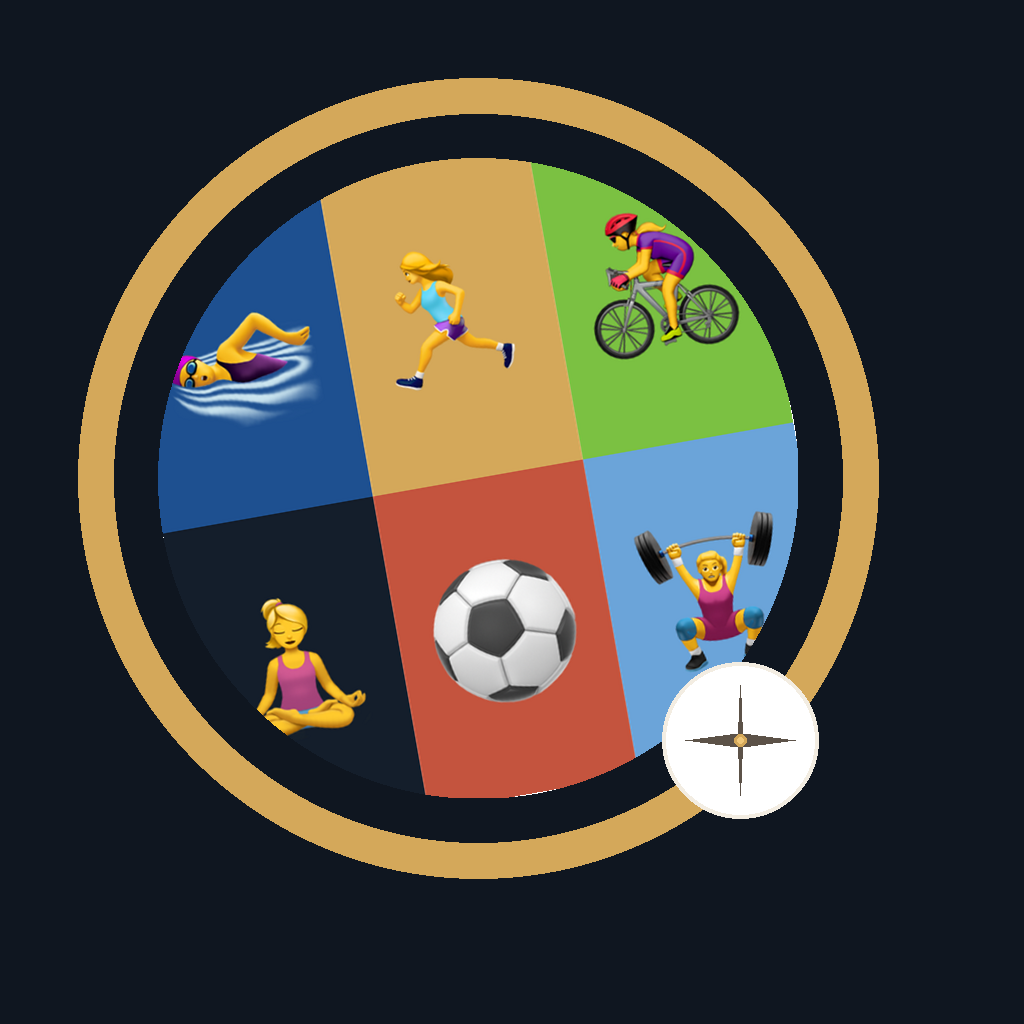
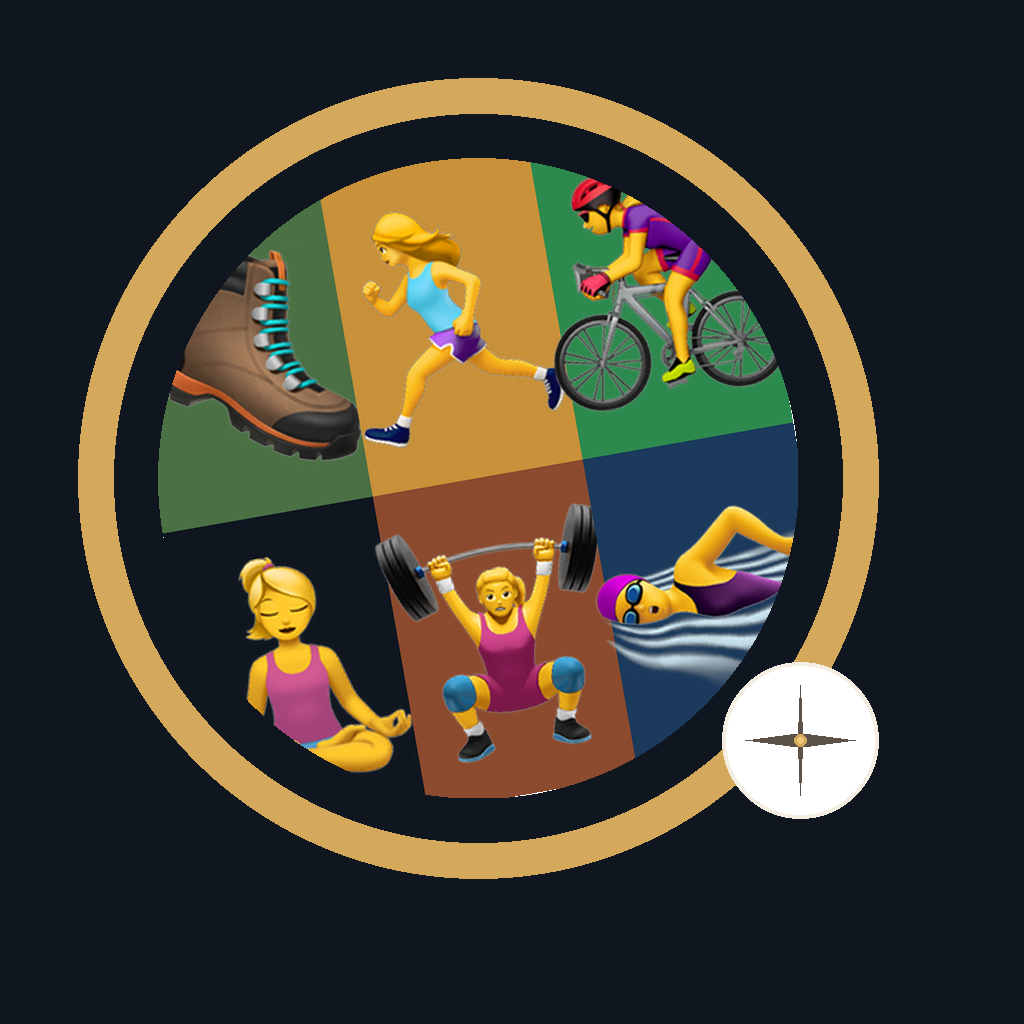
feat(brand): AppIcon final V2 — option D layout + emojis grands + sigil décalé
Sophie 2026-05-11 validé après itérations :
- Layout 3×2 : [randonnée][course][vélo] / [yoga][muscu][natation]
  Course + Muscu sur l'axe central vertical (colonne 2)
  Randonnée top-left, Natation bottom-right (swap final)
  Plus de football (trop dominant pour un sport pas principal)
- Emojis ×1.36 (target 380px) — fix bug PIL `thumbnail` qui ne fait que
  downscale, remplacé par `resize` qui scale up aussi
- Anneau or D4A85A + décentrage haut-gauche (cx=cy=478 sur 1024 = pattern
  FloreSage/GardenSage)
- Sigil Sage décalé à (800, 740) — vraie étoile 4 branches + point doré
- Rotation 10° anti-horaire (PIL counter-clockwise) — léger dynamisme

Pipeline 2 scripts :
- `Resources/Brand/gen-mosaic.py` — génère la mosaïque source via PIL
  + AppleColorEmoji embedded_color (emojis natifs Apple)
- `Resources/Brand/gen-icon.py` — applique halo or, clip cercle, sigil,
  rotation → 3 variants light/dark/tinted

Changed region(s): [[0.1562, 0.1562, 0.875, 0.8125]]

diff --git a/Resources/Brand/gen-mosaic.py b/Resources/Brand/gen-mosaic.py
@@ -1,0 +1,88 @@
+"""
+Génère la mosaïque source CoachingSage option D (validée Sophie 2026-05-11) :
+- Layout 3 col × 2 lignes
+- Course + Muscu en positions centrales (colonne du milieu)
+- Natation remplace Football
+- 6e cellule = Randonnée
+- Fonds couleur sport (matching Color.coachingSport(forCode:))
+- Emojis Apple rendus en couleur via PIL embedded_color
+"""
+from PIL import Image, ImageDraw, ImageFont
+
+SIZE = 1024
+COLS = 3
+ROWS = 2
+CELL_W = SIZE // COLS  # 341
+CELL_H = SIZE // ROWS  # 512
+
+EMOJI_FONT = "/System/Library/Fonts/Apple Color Emoji.ttc"
+EMOJI_NATIVE_SIZE = 160  # taille bitmap dispo dans AppleColorEmoji
+EMOJI_TARGET = 380       # ×1.36 vs 280 — Sophie 2026-05-11 : encore plus grand (limite largeur cellule 341)
+
+# Layout option D :
+# col0 = Natation,  col1 = Course,  col2 = Vélo
+# col0 = Yoga,      col1 = Muscu,   col2 = Randonnée
+CELLS = [
+    # (col, row, emoji, bg_color hex)
+    (0, 0, "🥾", "#4A7044"),                 # randonnée (était natation)
+    (1, 0, "🏃♀", "#C8913A"),   # course
+    (2, 0, "🚴♀", "#2D8A4E"),   # vélo
+    (0, 1, "🧘♀", "#0F1620"),   # yoga
+    (1, 1, "🏋♀", "#8C4A2E"),  # muscu
+    (2, 1, "🏊♀", "#1B3A5C"),   # natation (était randonnée)
+]
+
+OUT = "/Users/sophieslama/CL3/CoachingSage/Resources/Brand/coachingsage-mosaic-source.png"
+
+
+def hex_to_rgba(h):
+    h = h.lstrip("#")
+    return tuple(int(h[i:i+2], 16) for i in (0, 2, 4)) + (255,)
+
+
+def render_emoji(emoji_text):
+    """Render an emoji at native AppleColorEmoji bitmap size into a transparent
+    image, then resize to EMOJI_TARGET. Returns RGBA Image."""
+    font = ImageFont.truetype(EMOJI_FONT, size=EMOJI_NATIVE_SIZE)
+    # Padding suffisant pour ne pas clipper
+    pad = 20
+    tmp = Image.new("RGBA", (EMOJI_NATIVE_SIZE + pad * 2, EMOJI_NATIVE_SIZE + pad * 2), (0, 0, 0, 0))
+    draw = ImageDraw.Draw(tmp)
+    draw.text((pad, pad), emoji_text, embedded_color=True, font=font)
+    # Crop to non-transparent bbox to remove extra space
+    bbox = tmp.getbbox()
+    if bbox:
+        tmp = tmp.crop(bbox)
+    # Resize to target keeping aspect ratio (UP or DOWN — vs thumbnail qui ne fait QUE downscale)
+    w, h = tmp.size
+    scale = EMOJI_TARGET / max(w, h)
+    new_size = (int(w * scale), int(h * scale))
+    tmp = tmp.resize(new_size, Image.LANCZOS)
+    return tmp
+
+
+def main():
+    canvas = Image.new("RGBA", (SIZE, SIZE), (255, 255, 255, 255))
+    draw = ImageDraw.Draw(canvas)
+
+    for col, row, emoji, bg_hex in CELLS:
+        x0 = col * CELL_W
+        y0 = row * CELL_H
+        x1 = x0 + CELL_W
+        y1 = y0 + CELL_H
+        draw.rectangle((x0, y0, x1, y1), fill=hex_to_rgba(bg_hex))
+
+        # Render emoji
+        em = render_emoji(emoji)
+        ew, eh = em.size
+        # Center in cell
+        ex = x0 + (CELL_W - ew) // 2
+        ey = y0 + (CELL_H - eh) // 2
+        canvas.paste(em, (ex, ey), em)
+
+    canvas.save(OUT)
+    print(f"Wrote {OUT}")
+
+
+if __name__ == "__main__":
+    main()

diff --git a/Resources/Brand/gen-icon.py b/Resources/Brand/gen-icon.py
@@ -7,7 +7,7 @@ Generate CoachingSage AppIcon based on FloreSage/GardenSage visual pattern :
 """
 from PIL import Image, ImageDraw, ImageFilter
 
-SRC = "/Users/sophieslama/Downloads/CoachingSage-icon-mosaique-1024.png"
+SRC = "/Users/sophieslama/CL3/CoachingSage/Resources/Brand/coachingsage-mosaic-source.png"
 
 # Output 3 variants
 OUT_LIGHT = "/Users/sophieslama/CL3/CoachingSage/Resources/Brand/coachingsage-icon-light.png"
@@ -19,7 +19,7 @@ CX = CY = 478  # même centre que GardenSage (légèrement décalé)
 R_OUTER = 400  # anneau extérieur radius
 R_DISC = 320   # cercle central radius (mosaïque)
 RING_WIDTH = 36
-SIGIL_CX, SIGIL_CY = 740, 740
+SIGIL_CX, SIGIL_CY = 800, 740
 SIGIL_R = 78
 
 
